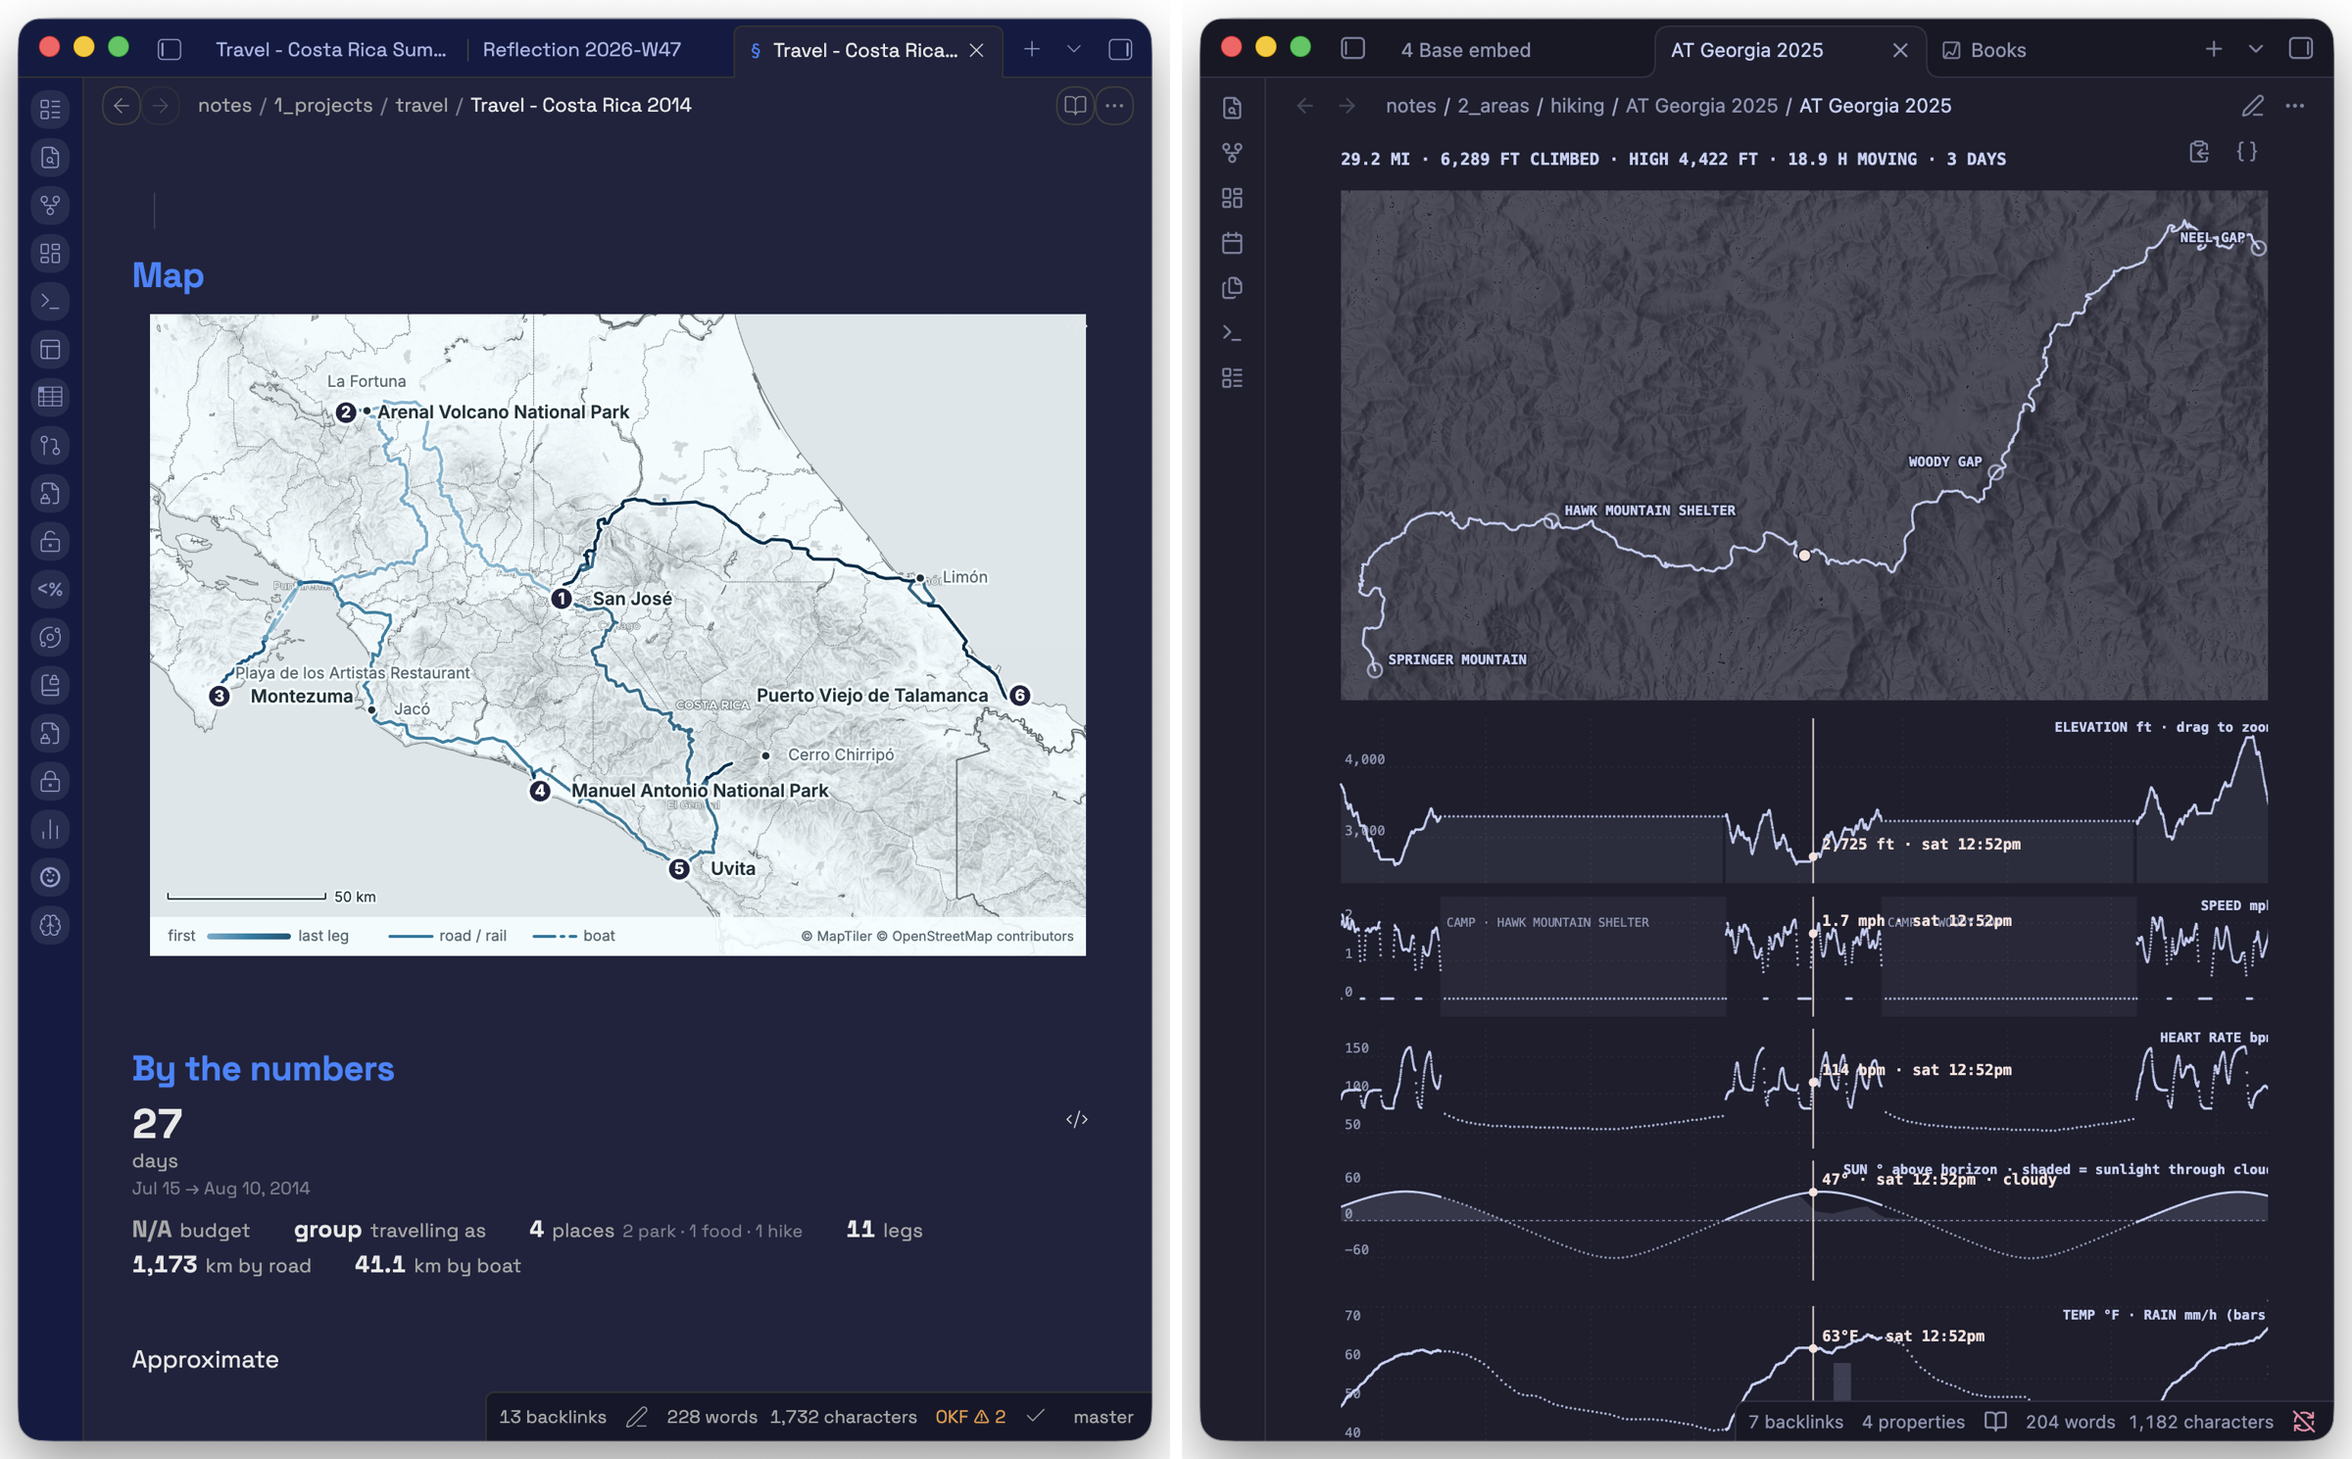
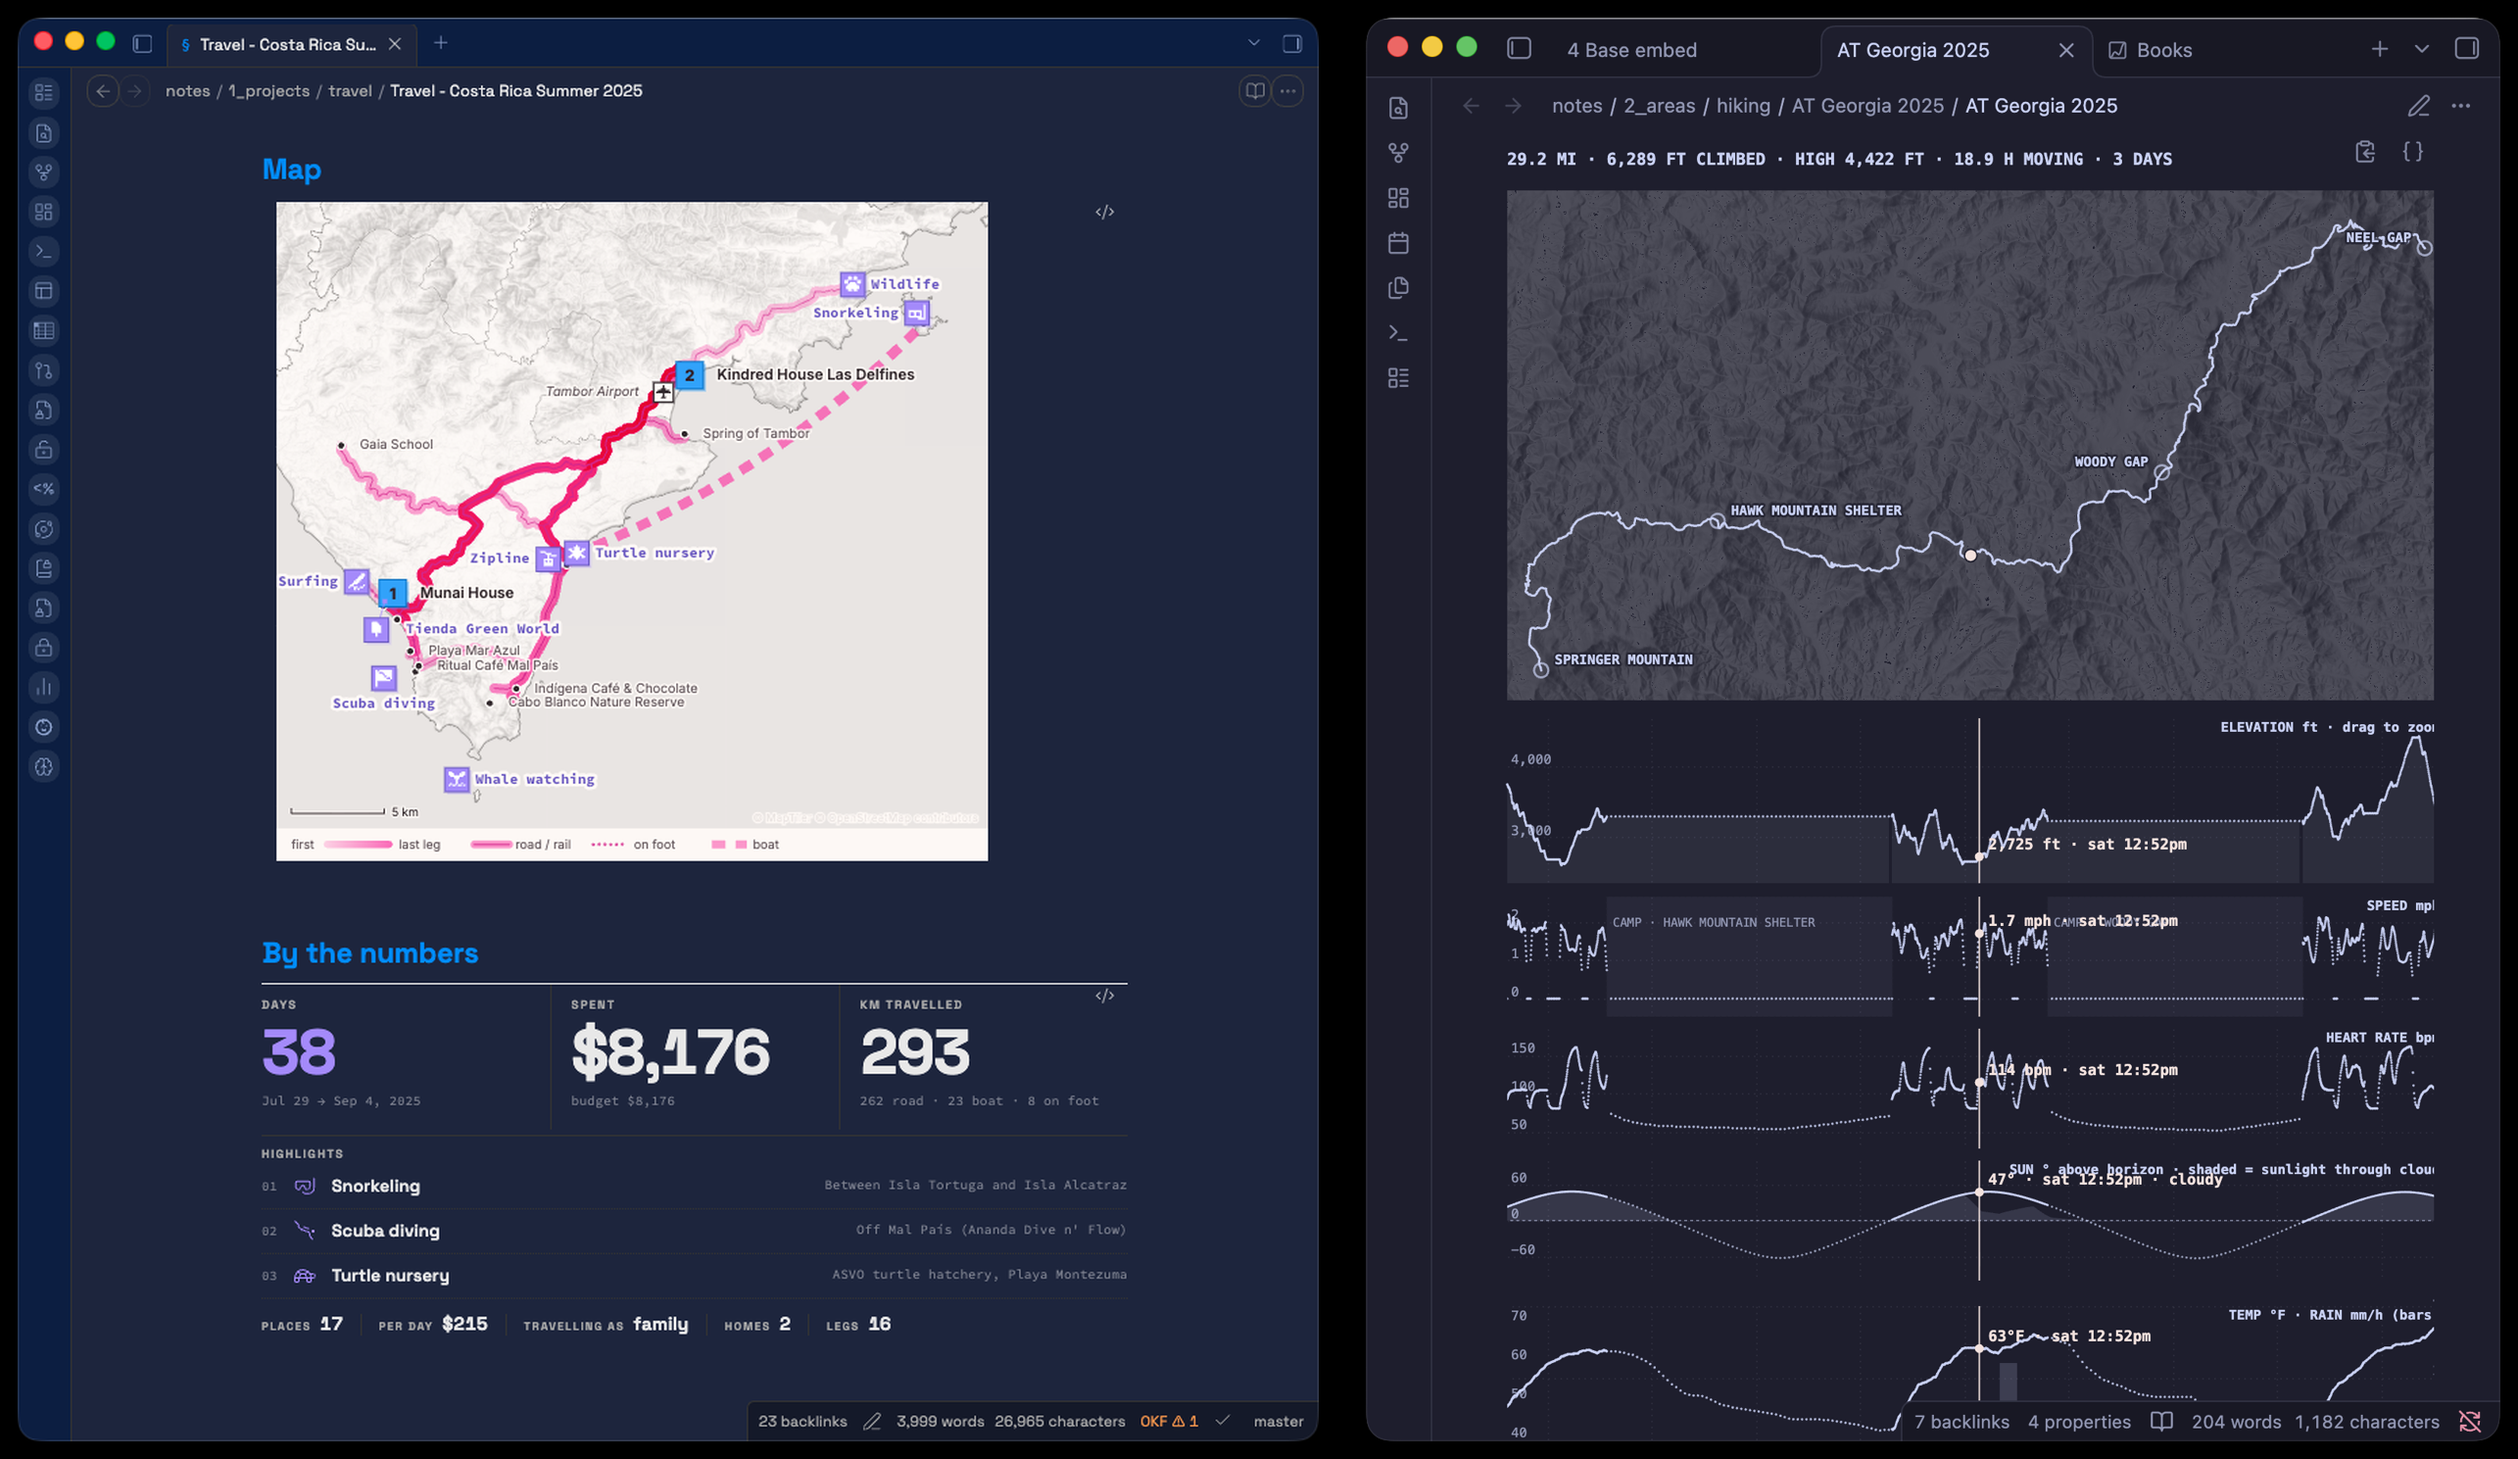
Travel maps: swap in Costa Rica 2025 map, update caption

diff --git a/content/Personal/travel-maps.md b/content/Personal/travel-maps.md
@@ -27,7 +27,7 @@ Of course, when I started using Obsidian to keep track of all my life in one pla
 
 But the data visualisation part was lacking. With [Agate](/agate/), the plugin I built, that changed. With some tinkering, experimentation and inquiries to Claude, I was able to create a single map spec <del>to rule them all</del> that shows the itinerary of any trip I've had, on a map. Another spec, on top of the same data, shows the most important statistics.
 
-<figure><img src="/static/mapping_travel/agate-costa-rica-and-georgia.png" alt="Two Obsidian notes side by side. Left: Travel - Costa Rica 2014, a map with six numbered stops and routes shaded from first to last leg, above a By the numbers block reading 27 days, 1,173 km by road, 41.1 km by boat. Right: AT Georgia 2025, a hiking route over shaded terrain, above stacked charts of elevation, speed, heart rate, sun and temperature">
-<figcaption>Two notes, drawn by Agate. Left: Costa Rica 2014, redrawn in 2026 from the trip's note — the route leg by leg, and the trip by the numbers. Right: three days on the Appalachian Trail in Georgia, 2025 — the route over terrain, with elevation, speed, heart rate, sun and weather along the way. Tools: Obsidian, Agate · Basemap: MapTiler</figcaption></figure>
+<figure><img src="/static/mapping_travel/agate-costa-rica-and-georgia.png" alt="Two Obsidian notes side by side. Left: Travel - Costa Rica Summer 2025, a map of the Nicoya peninsula with two numbered stays, routes shaded from first to last leg, and icons for experiences like snorkeling, scuba diving and a turtle nursery, above a By the numbers block reading 38 days, $8,176 spent, 293 km travelled, with top highlights. Right: AT Georgia 2025, a hiking route over shaded terrain, above stacked charts of elevation, speed, heart rate, sun and temperature">
+<figcaption>Two notes, drawn by Agate. Left: Costa Rica, summer 2025 — the route leg by leg with icons for experiences, and the trip by the numbers. Right: three days on the Appalachian Trail in Georgia, 2025 — the route over terrain, with elevation, speed, heart rate, sun and weather along the way. Tools: Obsidian, Agate · Basemap: MapTiler · Icons: custom CSS</figcaption></figure>
 
 I am pretty happy with the result. Still, I am a bit concerned that the trips look almost cookie-cutter, and I am not fully satisfied with the free-tier MapTiler basemaps (labels get in the way). Perhaps another layer of information would help — iconography for experiences, top photos (that would require setting up private URLs and private image hosting within my network, a separate piece of work). All of it is yet to come.
